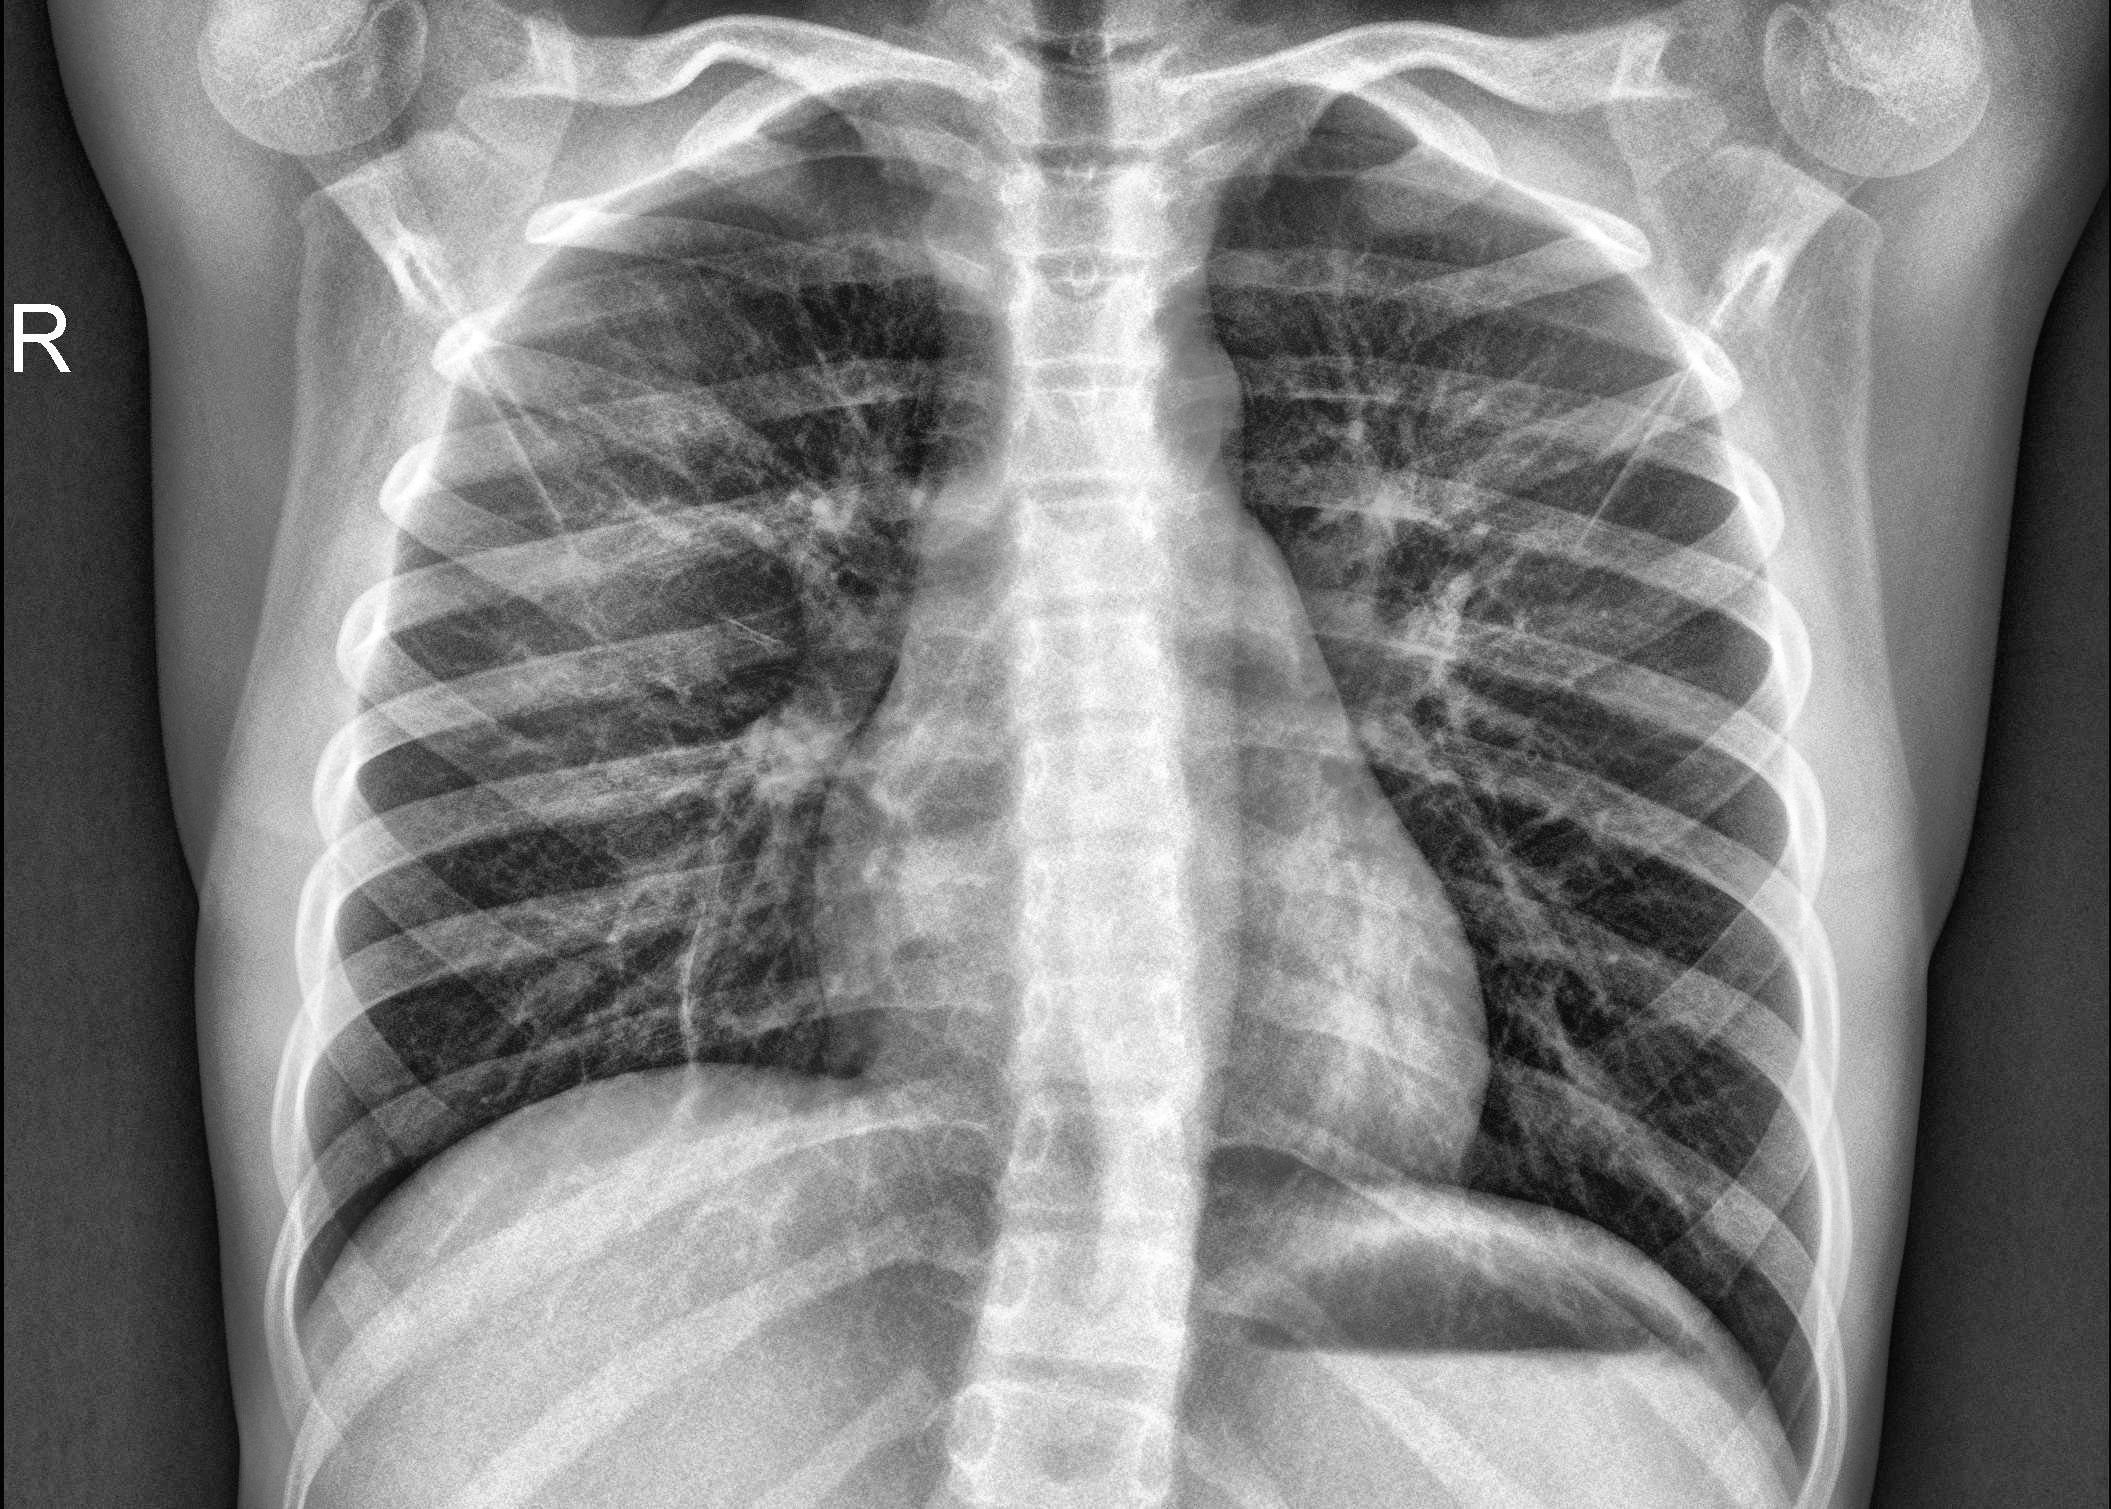
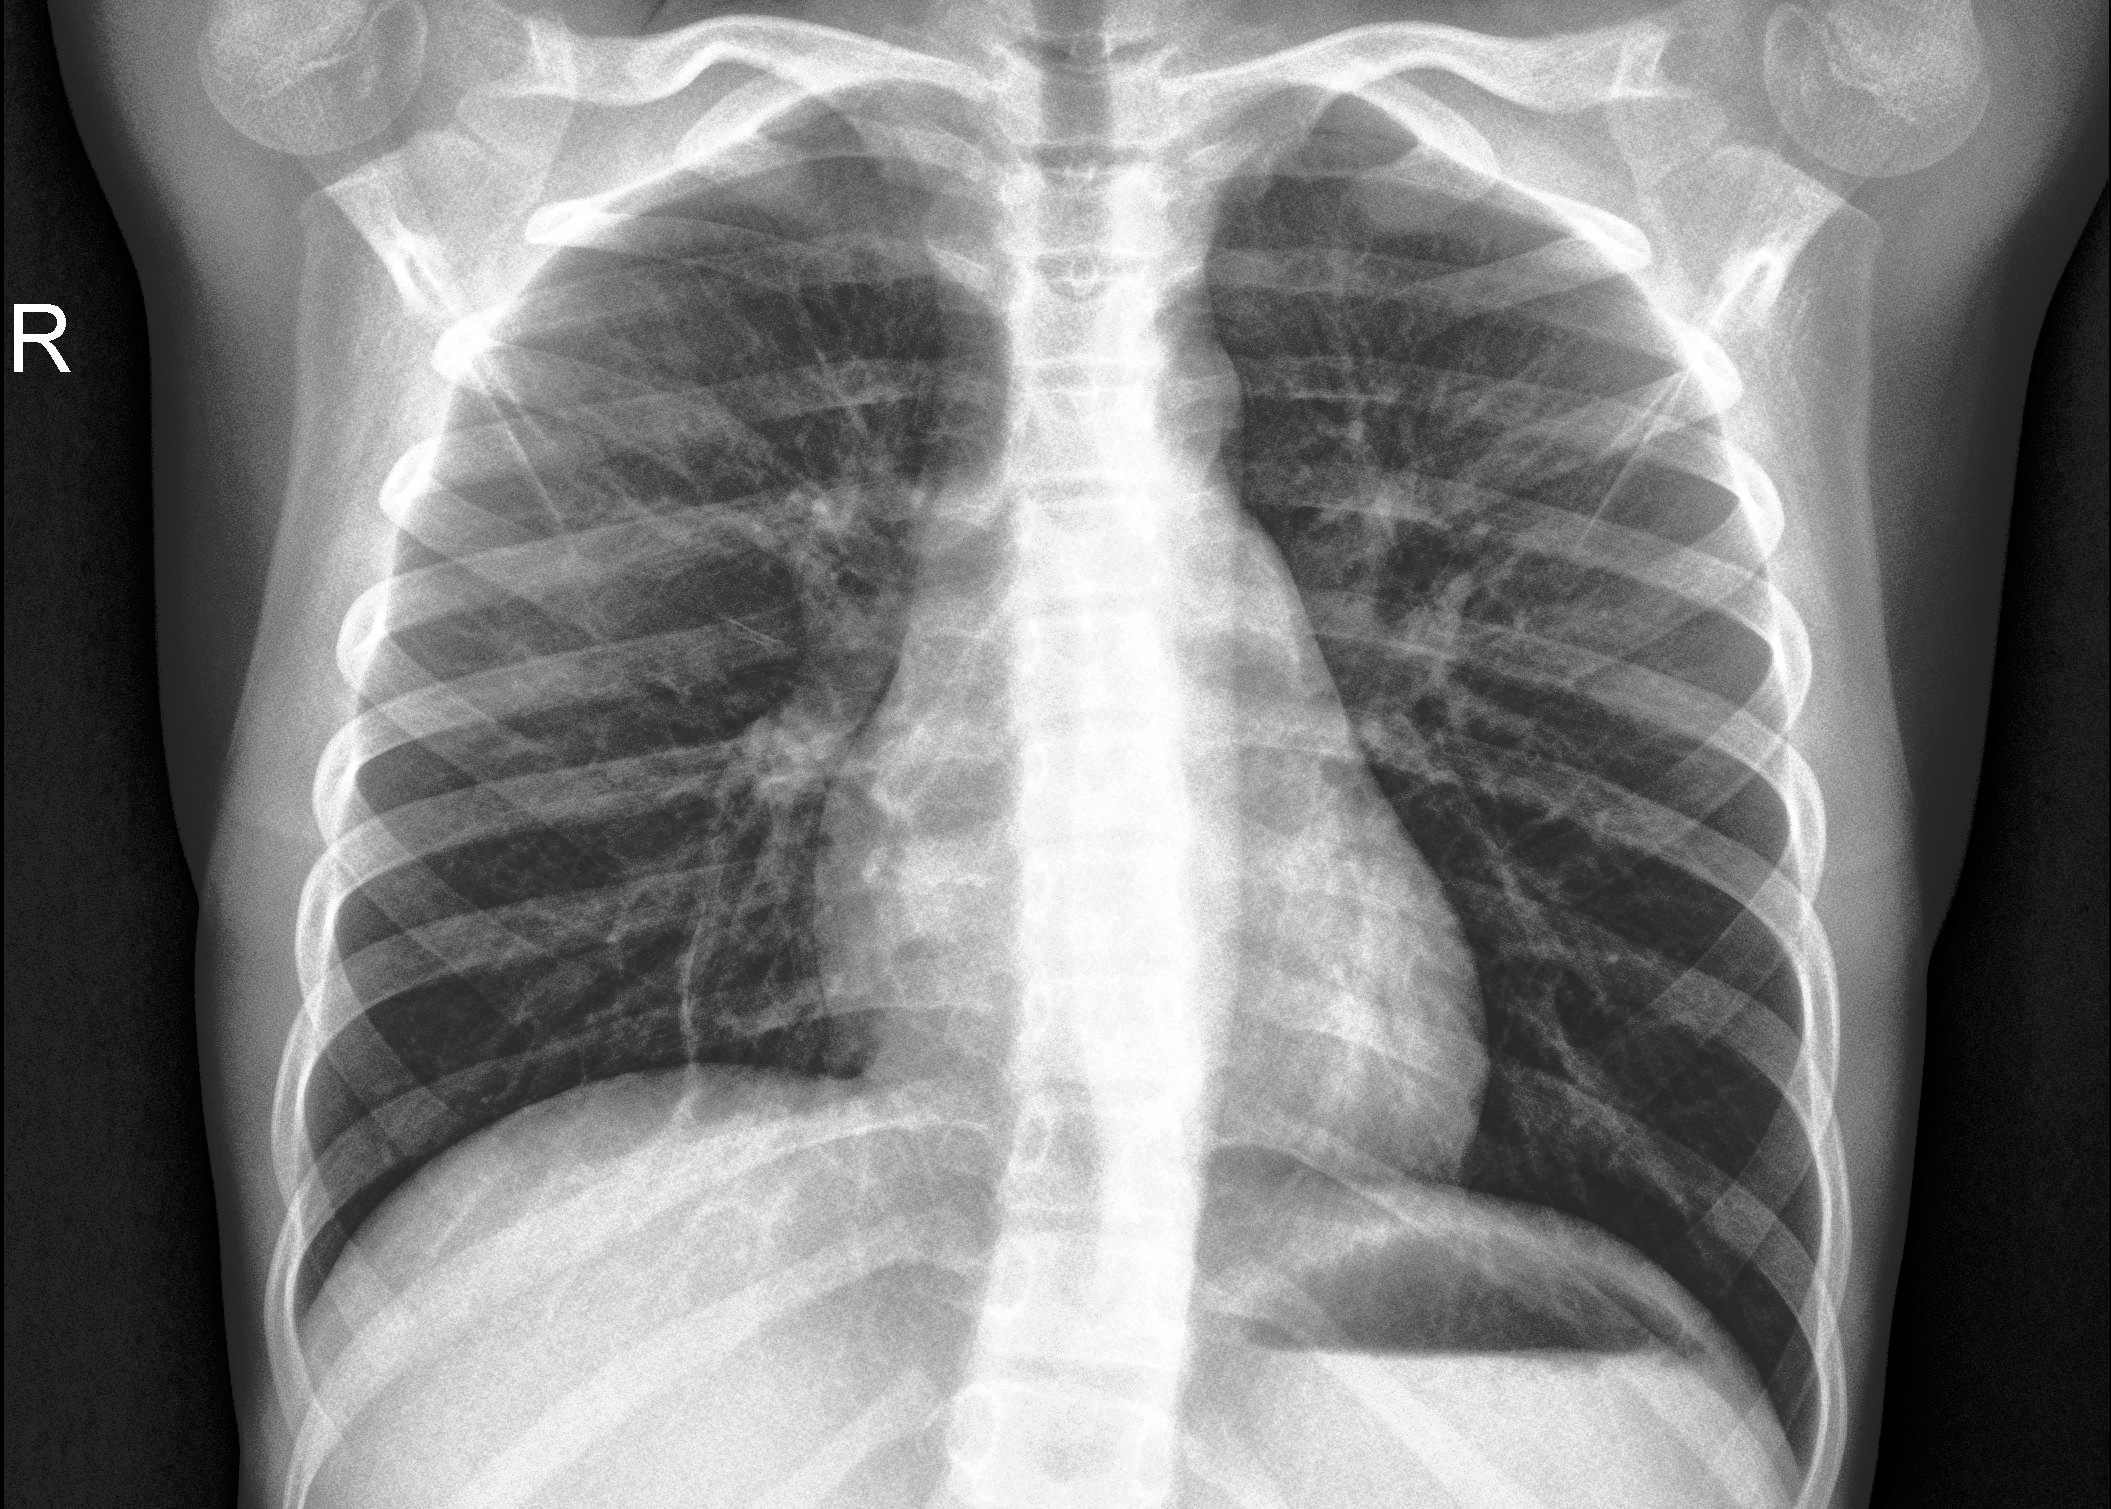
added global histogram eqalization

diff --git a/src/ghe.py b/src/ghe.py
@@ -6,10 +6,83 @@ from pathlib import Path
 sys.path.append(os.path.abspath(os.path.join(os.path.dirname(__file__), '..')))
 
 from utils import validate_image, ensure_grayscale
+from config import HISTOGRAM_SIZE, HISTOGRAM_RANGE
+from visualize import plot_histogram
 
 def global_histogram_equalization(image: np.ndarray) -> np.ndarray:
     """
     Applies Global Histogram Equalization (GHE) to a grayscale image.
 
-    What it does: enhances the contrast of an image by redistributing its pixel
+    What it does: enhances the contrast of an image by redistributing its pixel intensities.
+    The core idea is to create a new image where the cumulative distribution (CDF) is linear,
+    effectively spreading out the most frequent intensity values.
+
+    Args:
+        image (np.ndarray): The input image as a numpy array. Can be color or grayscale.
+                            If it is color will be converted to grayscale
+
+    Returns:
+        np.ndarray: The contrast-enhanced, 8-bit grayscale image.
+
+    Raises:
+        ValueError: If the input image is empty or invalid.
     """
+
+    validate_image(image)
+    gray_image = ensure_grayscale(image)
+
+    # Handle edge case: image with uniform intensity (eg., all black or white)
+    if np.all(gray_image == gray_image[0, 0]):
+        return gray_image.copy()
+    
+    # Histogram computation
+    # Calculating frequency of each intensity level (0-255)
+    hist, _ = np.histogram(gray_image.flatten(), bins = HISTOGRAM_SIZE, range = HISTOGRAM_RANGE)
+    # CDF calculation (computing the cumulative sum of histogram)
+    cdf = hist.cumsum()
+    # CDF Normalization
+    # Finding the minimum non-zero value in the CDF for normalization
+    cdf_m = np.ma.masked_equal(cdf, 0)
+    cdf_m = (cdf_m - cdf_m.min()) * 255 / (cdf_m.max() - cdf_m.min())
+    # Fill the masked values with 0
+    cdf_normalized = np.ma.filled(cdf_m, 0).astype('uint8')
+    # Apply transformation (using the normalized CDF as a lookup table to map pixel values)
+    enhanced_image = cdf_normalized[gray_image]
+
+    return enhanced_image
+
+class GHE:
+    """
+    Class to perform Global Histogram Equalization (GHE) with iterative clip limit adjustment.
+    """
+    def __init__(self):
+        pass
+    
+    def apply(self, image: np.ndarray) -> np.ndarray:
+        """
+        Applies the GHE algorithm to the given image
+
+        Args:
+            image (np.ndarray): The input image.
+
+        Returns:
+            np.ndarray: The enhanced image.
+        """
+        return global_histogram_equalization(image)
+
+if __name__ == "__main__":
+    from config import INPUT_DIR, OUTPUT_DIR, PLOT_DIR
+    from utils import load_image, save_image
+
+    input_image_path = f"{INPUT_DIR}/x-ray-1.jpg"
+    output_image_path = "x-ray-1-output.jpg"
+
+    ghe = GHE()
+    image = load_image(input_image_path)
+    enhanced_image = ghe.apply(image)
+
+    save_image(enhanced_image, output_image_path, OUTPUT_DIR)
+    files = os.listdir(PLOT_DIR)
+    image_files = [f for f in files if f.lower().endswith(('.jpg'))]
+    save_file_name = f"x-ray-ghe-hist_{len(image_files) + 1}"
+    plot_histogram(image, enhanced_image, PLOT_DIR, save_file_name)

diff --git a/src/clahe.py b/src/clahe.py
@@ -101,8 +101,9 @@ if __name__ == "__main__":
     input_image_path = f"{INPUT_DIR}/x-ray-1.jpg"
     output_image_path = "x-ray-1-output.jpg"
 
+    clahe = CLAHE()
     image = load_image(input_image_path)
-    enhanced_image = apply_clahe(image)
+    enhanced_image = clahe.apply(image)
 
     save_image(enhanced_image, output_image_path, OUTPUT_DIR)
     files = os.listdir(PLOT_DIR)
